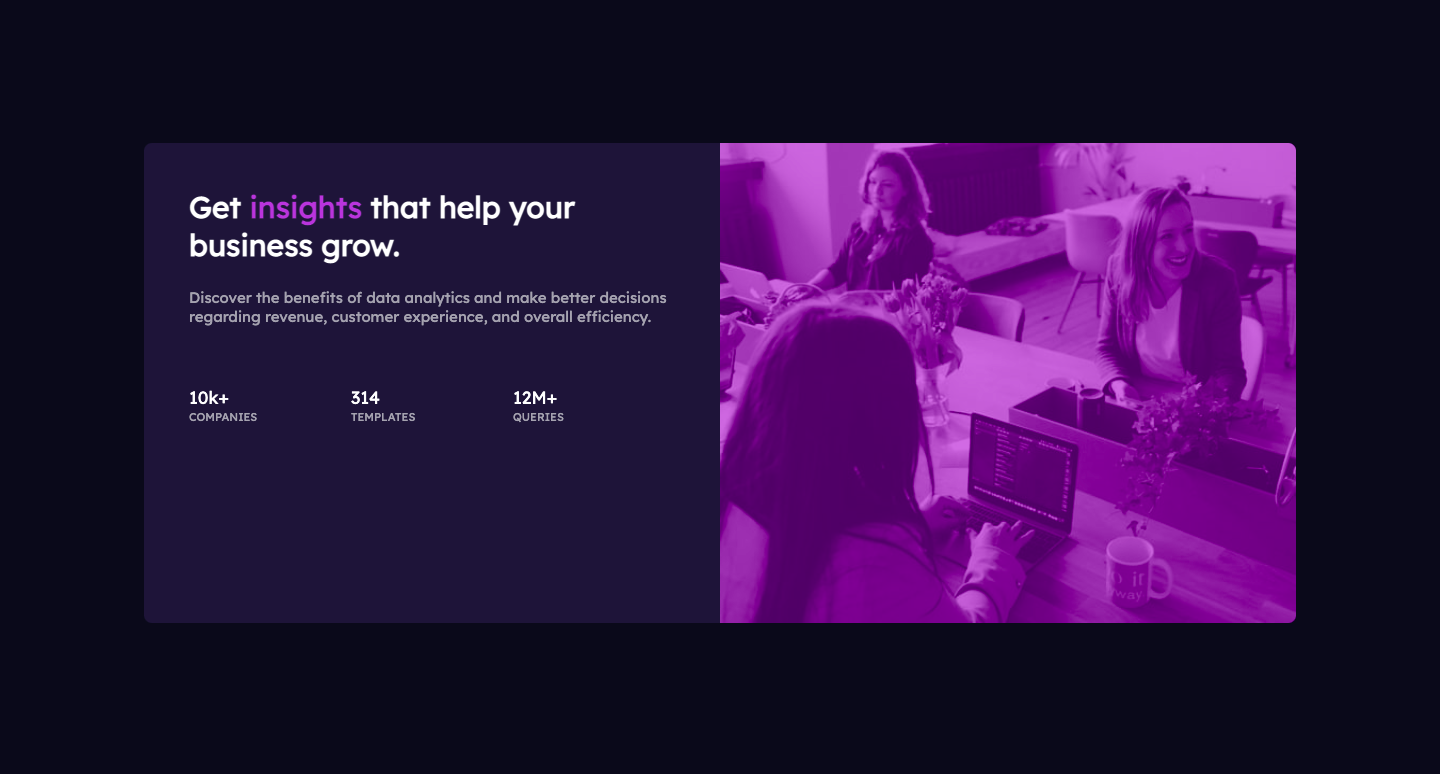
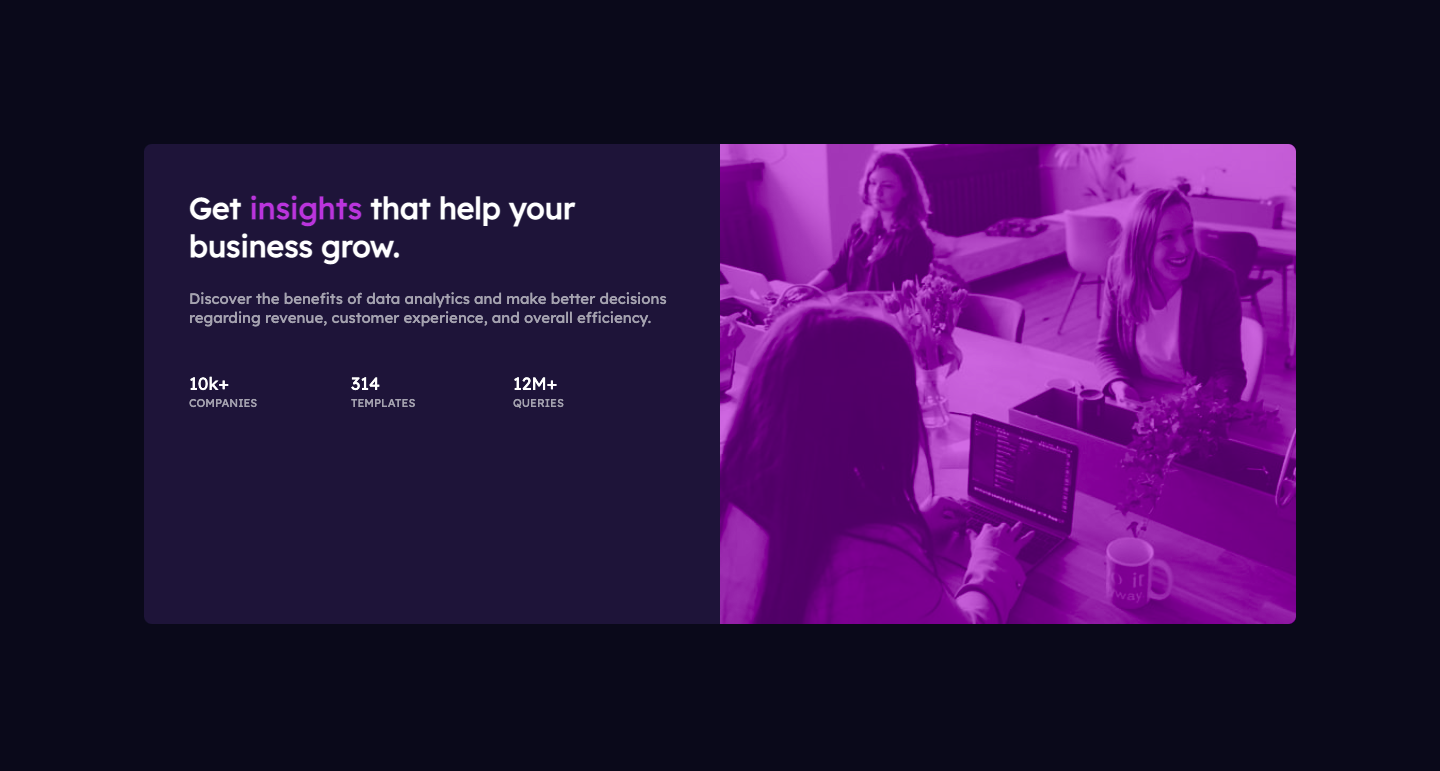
modified style a bit

diff --git a/style.css b/style.css
@@ -61,7 +61,7 @@ h1 {
 .main-para {
     color: hsla(0, 0%, 100%, 0.6);
     margin-top: 0.4em;
-    margin-bottom: 4em;
+    margin-bottom: 3em;
     font-family: 'Lexend Deca', sans-serif;
     font-weight: 400;
 }
@@ -110,6 +110,7 @@ img {
     }
 
     .flex-item-two {
+        line-height: 0;
         border-top-left-radius: var(--radius);
         border-bottom-right-radius: 0;
     }
